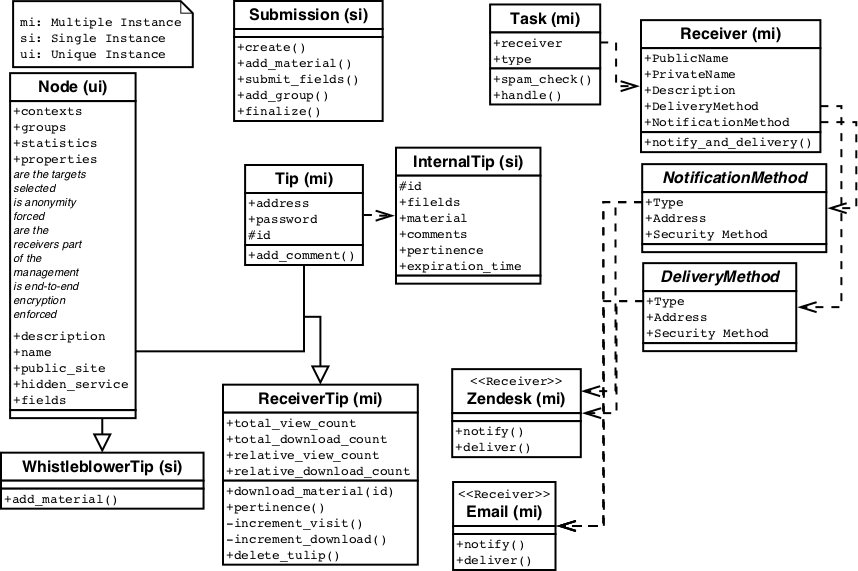
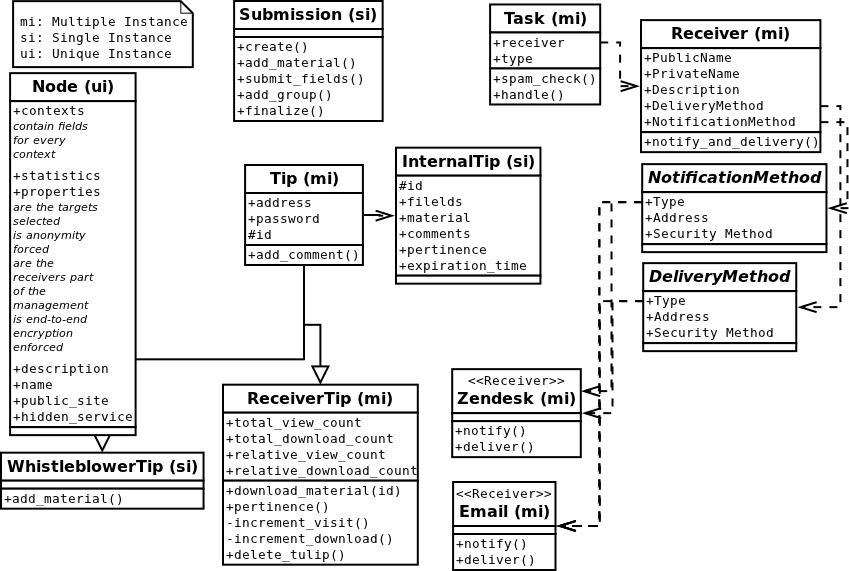
Updated general arch with the new /node/ REST design

Changed region(s): [[0.0, 0.0, 1.0, 1.0], [0.0, 0.8634, 0.1531, 0.8932]]

diff --git a/REST-spec.md b/REST-spec.md
@@ -1,101 +1,65 @@
 # Public API
 
-`/info/`
+## Under writting!
+
+## Open GLBackend/docs/specification/GLBackend-18-5-2012.png
+
+`/node/`
 
     Returns information on the GlobaLeaks node. This includes
     submission paramters and how information should be presented
     by the client side application.
 
+    Follow the resource describing Node (uniq instance, opened to all)
+
     :GET
         Returns a json object containing all the information of the node.
         * Response:
             Status Code: 200 (OK)
-            { 'type': <int type>,
-              '0': { 'title': <string Title of this step>
-                     'fields': [{'name': <string Name of the form element>,
-                                 'title': <string Label of this element>,
-                                 'description': <string Long description>,
-                                 'type': <string text|files|select|radio>,
-                                 'size': <string (optional) length of text field. w=words, c=characters>,
-                                 'options': (optional) [[<string Name of select option>,
-                                                        <string Label of select option>],
-                                                        ...
-                                                        ]
-                               }],
-                      'buttons': {'next': <string Title of the next button>}
-                    },
-              '1': ...
-              ...
-            }
+             { 
+              'name': <string Name of the initiative>,
+              'statistics': <string, general statistics>,
+              'properties': [ array, lists of node Yes:No selection,
+                              describing chooses in Backend setup.
+                              Info can be used by LeakDirectory or other
+                              external aggregator of nodes.
+                            ]
+              'contexts': [{'context_number': <Int of managed receiver groups>},
+                           {'context_1': <String name of group>}, 
+                           {'context_1_field': 
+                                [1: { 'field_name', 'field_type', 'Required' },
+                                [#F: { 'field_name', 'field_type', 'Required' }]
+                           {'context_#N': <String name of group>}],
+                           {'context_#N_field': 
+                                [1: { 'field_name', 'field_type', 'Required' },
+                                [#F: { 'field_name', 'field_type', 'Required' }]
+               'descriptiom': <string, descrption headline>,
+               'public_site': <string, url>,
+               'hidden_service': <string, url.onion>,
+             },
         example of a result:
-            { 'type' : 2,
-              '0' : {'title': 'Help us fight Corruption!',
-                     'fields': [{'name': 'tip',
-                                 'title': 'Your tip',
-                                 'description': 'Explain the issue in less than 3000 chars',
-                                  'type': 'text',
-                                  'size': '3000c',
-                                  }],
-                     'buttons': {'next': 'Add some files'}
-                    },
-              '1' : {'title': 'Load Documents',
-                     'fields': [{'name': 'files',
-                                 'title': 'select files',
-                                 'type': 'files'
-                                 },
-                                {'name': 'documentDescription',
-                                 'title': 'Describe the documents',
-                                 'description': 'Explain the content of the \
-                                 uploaded material in less than 100 words',
-                                  'type': 'text',
-                                  'size': '100w',
-                                  }
-                                ],
-                     'buttons': {'next': 'Add more details',
-                                 'finish': 'Finalize the submission'}
-                     },
-              '2' : {'title': '',
-                     'fields': [
-                                {'name': 'someText1',
-                                 'title': 'Some Text',
-                                 'description': '',
-                                  'type': 'text',
-                                  'size': None,
-                                  },
-                                {'name': 'someText2',
-                                 'title': 'Some Text',
-                                 'description': '',
-                                  'type': 'string',
-                                  'size': None
-                                  },
-                                {'name': 'someText3',
-                                 'title': 'Some Text',
-                                 'description': '',
-                                  'type': 'select',
-                                  'options': [
-                                              ['Something', 'something'],
-                                              ['Something else', 'somethingelse']
-                                              ]
-                                  },
-                                {'name': 'someText4',
-                                 'title': 'Some Text',
-                                 'description': '',
-                                  'type': 'date',
-                                  'size': None,
-                                  },
-                                {'name': 'someText5',
-                                 'title': 'Some Text',
-                                 'description': '',
-                                  'type': 'radio',
-                                  'options': [
-                                              ['Option 1', 'opt1'],
-                                              ['Option 2', 'opt2'],
-                                              ['Option 3', 'opt3']
-                                              ],
-                                  'size': None,
-                                  }
-                                ]
-                     }
+             { 
+              'name': "blue meth fighting in alberoque",
+              'statistics': <string, general statistics>,
+              'properties': [ {'end2end_encryption_enforced': True},
+                              {'are_receivers_part_of_the_admin': False},
+                              {'anonymity_enforced': True},
+                            ]
+              'contexts': [{'context_number': 2 },
+                               {'context_1': 'Heisenberg saitings'},
+                               {'context_1_field': 
+                                    [ { 'headline', 'text', True },
+                                      { 'photo', 'img', False },
+                                      { 'descriptio', 'text', True }, ] 
+                               }
+                               {'context_2': <String name of group>}],
+                               {'context_2_field': 
+                                    [ { 'headline', 'text', True },
+                                      { 'photo', 'img', False },
+                                      { 'descriptio', 'text', True }, ] 
+               'descriptiom': 'This node aggregate expert of the civil society in fighting the crystal meth, producted by the infamous Heisenberg',
+               'public_site': 'http://figthmeth.net',
+               'hidden_service': 'vbg7fb8yuvewb9vuww.onion',
               }
     :POST
         None
